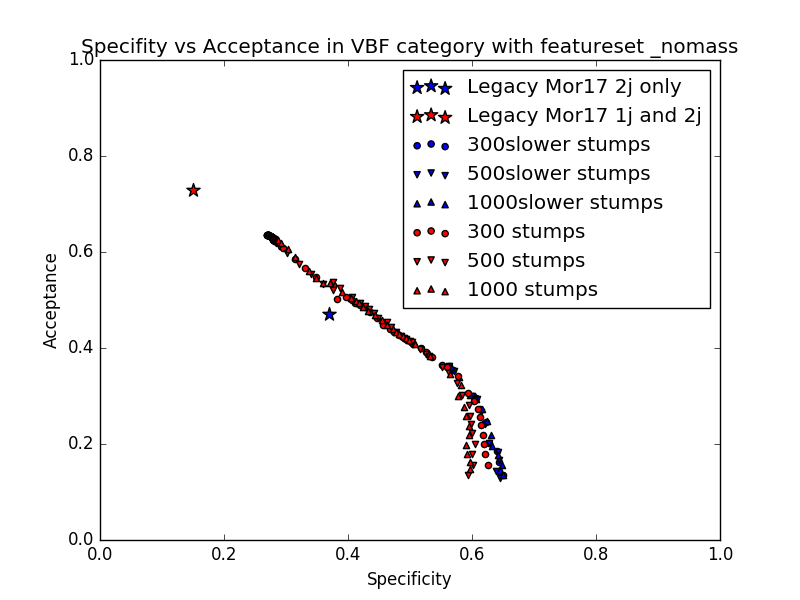
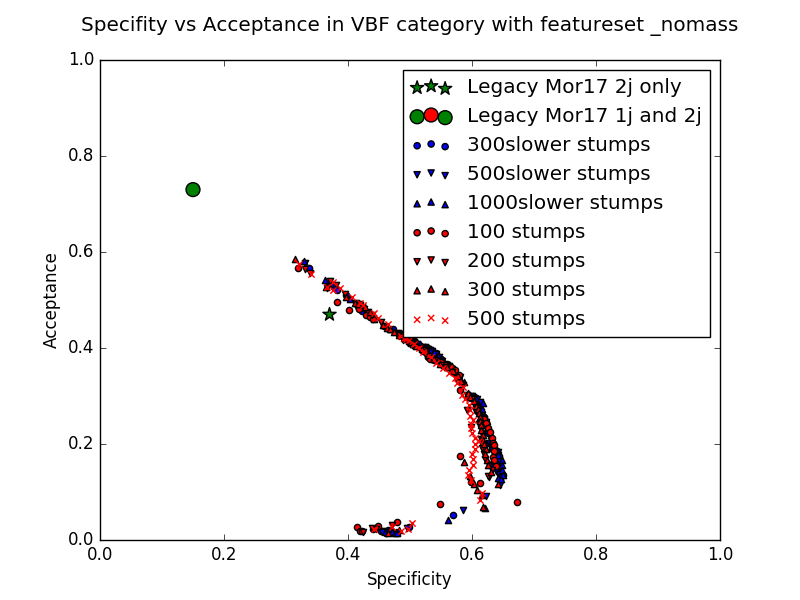
Select best purity

diff --git a/core/roc_curve.py b/core/roc_curve.py
@@ -14,10 +14,8 @@ def custom_roc():
     extension = '_nomass'
     available_models = ['_'.join(full_name.split('_')[:-1]) for full_name in os.listdir('saves/metrics/') if
                         full_name.split('_')[-1] == 'acceptance.txt']
-
     stumps_dict = [name for name in available_models if '_'.join(name.split('_')[0:2]) == 'adaboost_stumps']
     slow_stumps_dict = [name for name in available_models if '_'.join(name.split('_')[0:2]) == 'adaslow03_stumps']
-
     p.figure()
     p.xlim(0., 1.)
     p.ylim(0., 1.)
@@ -25,28 +23,28 @@ def custom_roc():
     p.ylabel('Acceptance')
     p.title('Specifity vs Acceptance in VBF category with featureset ' + extension + '\n')
 
-    # acceptance = 0.47
-    # specificity = 0.37
-    # p.scatter(specificity, acceptance, marker='*', c='b', s=10**2, label='Legacy Mor17 2j only')
+    acceptance = 0.47
+    specificity = 0.37
+    p.scatter(specificity, acceptance, marker='*', c='g', s=10**2, label='Legacy Mor17 2j only')
     acceptance = 0.73
     specificity = 0.15
-    p.scatter(specificity, acceptance, marker='*', c='r', s=10**2, label='Legacy Mor17 1j and 2j')
-
-    for n_est, symbol in zip([100, 300, 500], ['o', 'v', '^']):
-        plop = [model for model in slow_stumps_dict if (model.split('_')[2] == str(n_est))]
-        plop.sort()
-        acceptances = np.array([np.loadtxt('saves/metrics/' + name + extension + '_acceptance.txt')[1] for name in plop])
-        specificities = np.array([np.loadtxt('saves/metrics/' + name + extension + '_specificity.txt')[1] for name in plop])
-        scores = specificities + acceptances
-        best_candidate = np.argmax(scores)
-        content_plot(plop[best_candidate], save=True)
-        p.scatter(specificities, acceptances, marker=symbol, c='b', label=str(n_est) + 'slower stumps')
+    p.scatter(specificity, acceptance, marker='o', c='gr', s=10**2, label='Legacy Mor17 1j and 2j')
 
     for n_est, symbol in zip([300, 500, 1000], ['o', 'v', '^']):
+        plop = [model for model in slow_stumps_dict if (model.split('_')[2] == str(n_est))]
+        plop.sort()
+        acceptances = np.array([np.loadtxt('saves/metrics/' + name + '_acceptance.txt')[1] for name in plop])
+        specificities = np.array([np.loadtxt('saves/metrics/' + name + '_specificity.txt')[1] for name in plop])
+        scores = specificities# + acceptances
+        best_candidate = np.argmax(scores)
+        content_plot('_'.join(plop[best_candidate].split('_')[:-1]), save=True)
+        p.scatter(specificities, acceptances, marker=symbol, c='b', label=str(n_est) + 'slower stumps')
+
+    for n_est, symbol in zip([100, 200, 300, 500], ['o', 'v', '^', 'x']):
         plop = [model for model in stumps_dict if (model.split('_')[2] == str(n_est))]
         plop.sort()
-        acceptances = [np.loadtxt('saves/metrics/' + name + extension + '_acceptance.txt')[1] for name in plop]
-        specificities = [np.loadtxt('saves/metrics/' + name + extension + '_specificity.txt')[1] for name in plop]
+        acceptances = [np.loadtxt('saves/metrics/' + name + '_acceptance.txt')[1] for name in plop]
+        specificities = [np.loadtxt('saves/metrics/' + name + '_specificity.txt')[1] for name in plop]
         p.scatter(specificities, acceptances, marker=symbol, c='r', label=str(n_est) + ' stumps')
 
 #    for n_est, symbol in zip([50, 100, 200], ['o', 'v', '^']):

diff --git a/core/constants.py b/core/constants.py
@@ -66,10 +66,20 @@ def add_stumps():
             models_dict['adaboost_stumps_' + str(n_est) + '_' + str(purity_param) + '_' + 'custom'] = \
             (AdaBoostClassifier(decision_stump, n_estimators=n_est), [float(purity_param) / 100., 1., 1., 1., 1., 1., 1.])
 
+    for n_est in [100, 200, 300, 500]:
+        for purity_param in np.arange(100, 300, step=10):
+            models_dict['adaboost_stumps_' + str(n_est) + '_' + str(purity_param) + '_' + 'custom'] = \
+            (AdaBoostClassifier(decision_stump, n_estimators=n_est), [float(purity_param) / 100., 1., 1., 1., 1., 1., 1.])
 
 def add_slow_stumps():
     for n_est in [300, 500, 1000]:
         for purity_param in np.arange(100, 1000, step=25):
+            models_dict['adaslow03_stumps_' + str(n_est) + '_' + str(purity_param) + '_' + 'custom'] = \
+            (AdaBoostClassifier(decision_stump, n_estimators=n_est, learning_rate=0.3),
+             [float(purity_param) / 100., 1., 1., 1., 1., 1., 1.])
+    
+    for n_est in [300, 500, 1000]:
+        for purity_param in np.arange(100, 300, step=10):
             models_dict['adaslow03_stumps_' + str(n_est) + '_' + str(purity_param) + '_' + 'custom'] = \
             (AdaBoostClassifier(decision_stump, n_estimators=n_est, learning_rate=0.3),
              [float(purity_param) / 100., 1., 1., 1., 1., 1., 1.])

diff --git a/core/trainer.py b/core/trainer.py
@@ -14,9 +14,10 @@ def model_training(model_name):
 
     training_set = np.loadtxt(directory + 'full_training_set.dst')
     training_labels = np.loadtxt(directory + 'full_training_labels.lbl')
+    training_weights = np.loadtxt(directory + 'full_training_weights.wgt')
 
     if model_weights:
-        weights = np.array([model_weights[int(cat)] for cat in training_labels])
+        weights = np.array([model_weights[int(cat)]*training_weights[idx] for idx, cat in enumerate(training_labels)])
         analyser.fit(training_set, training_labels, weights)
     else:
         analyser.fit(training_set, training_labels)

diff --git a/main.py b/main.py
@@ -37,7 +37,10 @@ if __name__ == "__main__":
             except IOError:
                 logging.info('Generating predictions for ' + model_name + suffix)
                 ctg.generate_predictions(model_name)
-
-            content_plot(model_name)
+            try:
+                open('saves/metrics/' + model_name + suffix + '_acceptance.txt', 'rb')
+            except IOError:
+                logging.info('Generating metrics for ' + model_name + suffix)
+                content_plot(model_name)
         logging.info('All models studied with features set ' + suffix)
     #roc.main()
